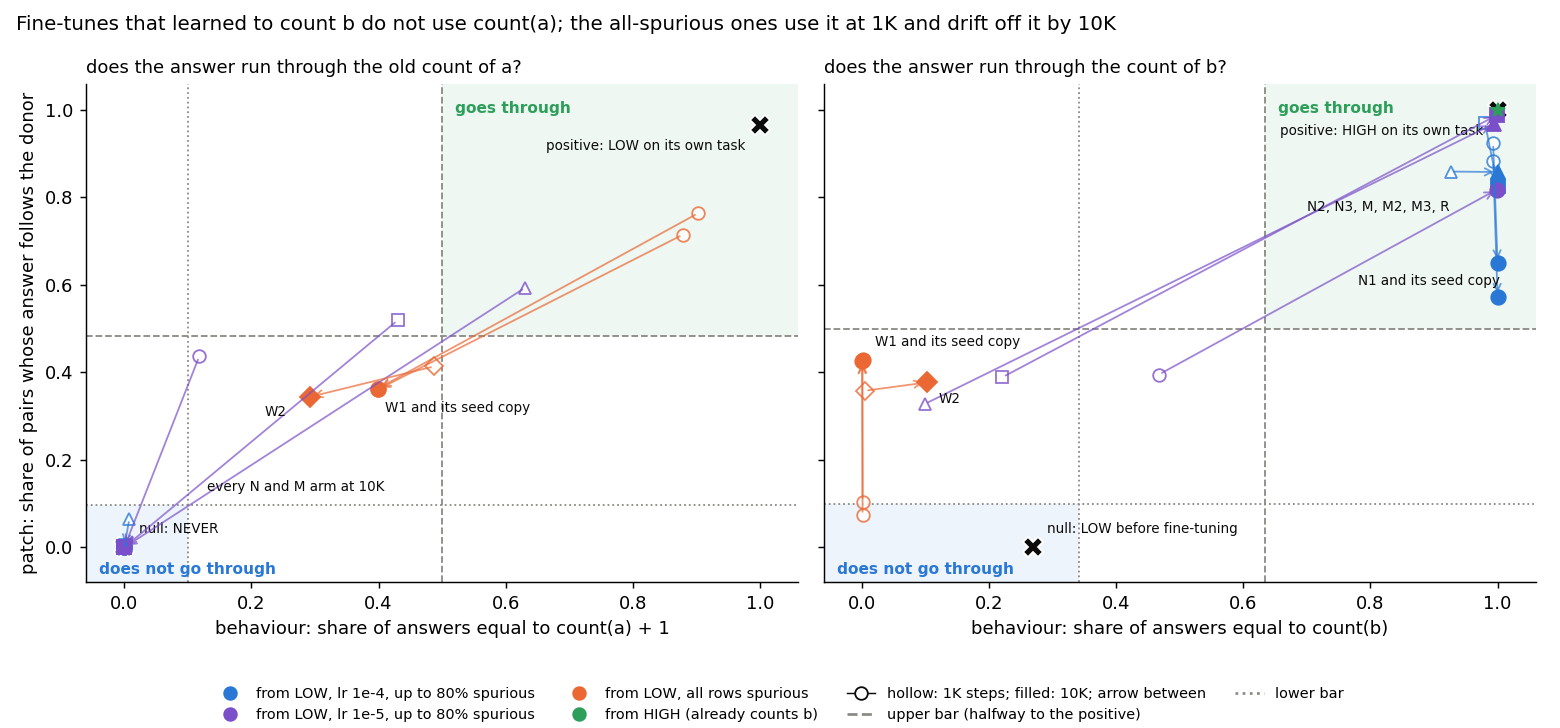
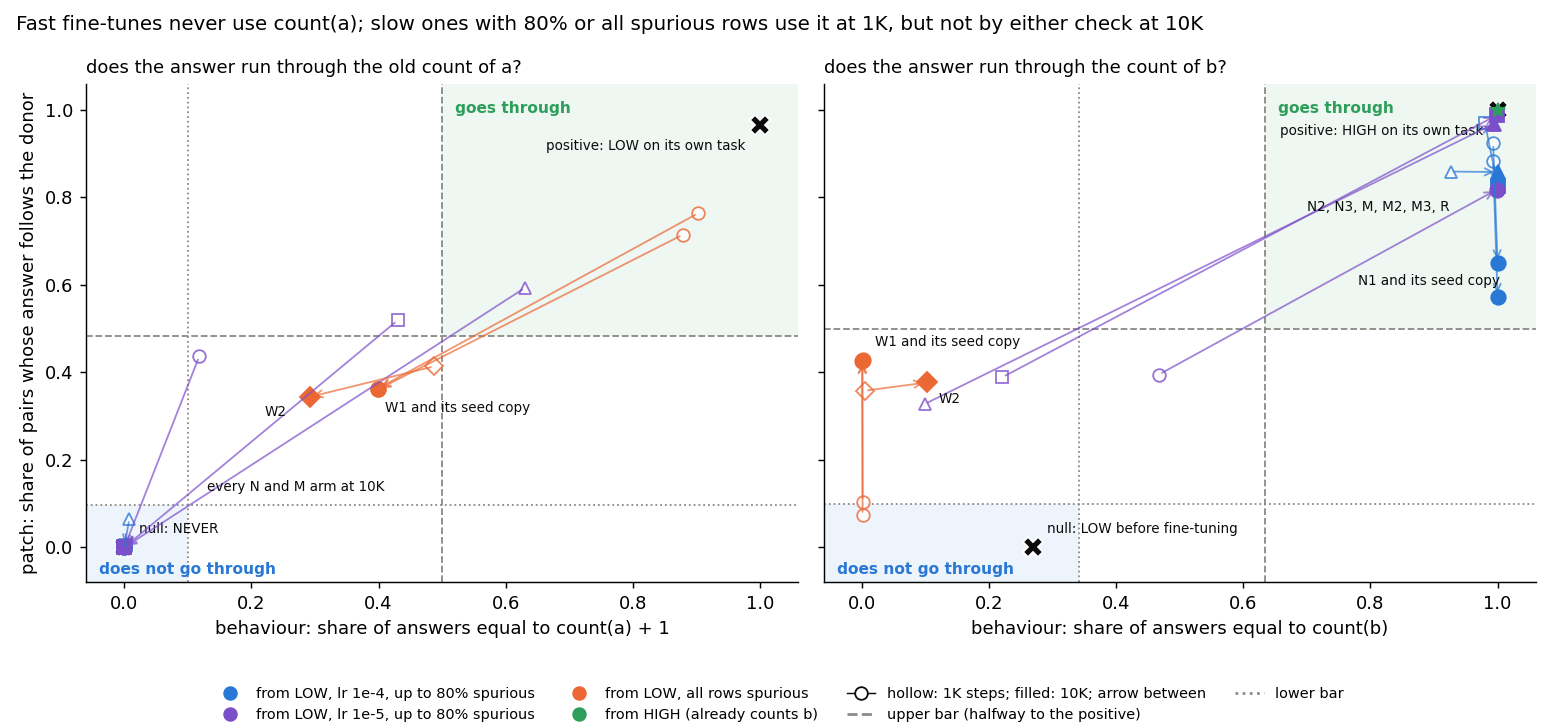
E55 Stage A: apply independent check corrections
Headline matches the table (M3 through count a at 1K; fast arms never through);
count-c reading ruled out for W1 at 10K by a + b + c = 40, midpoint rule named as
fitting but untested; PA4 reading hedged for uneven probe controls; noise, blind-to
and Not run items added; figure titles and probe legend corrected.

Changed region(s): [[0.0, 0.0, 0.7692, 0.0604]]

diff --git a/experiments/pcfg_anchors/plot.py b/experiments/pcfg_anchors/plot.py
@@ -84,14 +84,14 @@ def fig_controls(out: str = "controls.png", title: str = "The patch moves the an
     finish(fig, out, title)
 
 
-def fig_probe(out: str = "probe.png", title: str = "LOW's count of b is readable, at about half the strength of its count of a") -> None:  # fmt: skip
+def fig_probe(out: str = "probe.png", title: str = "LOW's count of b decodes above shuffled labels, just over the possession bar") -> None:  # fmt: skip
     pr = load("a1c_probe.json")["probes"]
     m, mp = pr["margins"], pr["m_plus"]["m_plus"]
     blocks = np.arange(1, 7)
-    fig, ax = plt.subplots(figsize=(7.6, 5.2))
-    for key, lab, col in (("LOW_count_a", "LOW, count of a (positive control)", N_C),
-                          ("HIGH_count_b", "HIGH, count of b (trained on it)", R_C),
-                          ("LOW_count_b", "LOW, count of b (never asked for it)", W_C)):  # fmt: skip
+    fig, ax = plt.subplots(figsize=(7.6, 5.8))
+    for key, lab, col in (("LOW_count_a", "LOW, count of a (positive control), minus the better of shuffled labels and NEVER's probe", N_C),
+                          ("HIGH_count_b", "HIGH, count of b (trained on it), minus shuffled labels", R_C),
+                          ("LOW_count_b", "LOW, count of b (never asked for it), minus shuffled labels", W_C)):  # fmt: skip
         ax.plot(blocks, m[key]["m"], "-o", color=col, lw=2, ms=6, label=lab)
     lb = np.array(m["LOW_count_b"]["m"])
     sb = np.array(m["LOW_count_b"]["s"])
@@ -99,11 +99,11 @@ def fig_probe(out: str = "probe.png", title: str = "LOW's count of b is readable
     ax.axhline(0.5 * mp, color=INK, ls="--", lw=1)
     ax.text(6.05, 0.5 * mp, "possession bar:\nhalf the positive\ncontrol's best", fontsize=8, va="center")
     ax.axhline(0, color=MUTED, lw=1)
-    ax.text(6.05, 0.0, "no better than\nshuffled labels", fontsize=8, va="center", color=INK)
+    ax.text(6.05, 0.0, "no better than\nits control", fontsize=8, va="center", color=INK)
     ax.set_xlim(0.7, 7.1)
     ax.set_xlabel("block whose output at '=' the linear probe reads")
-    ax.set_ylabel("probe accuracy minus best control accuracy")
-    ax.legend(fontsize=8, loc="upper center", bbox_to_anchor=(0.5, -0.14), ncol=2, frameon=False)
+    ax.set_ylabel("probe accuracy minus its control's accuracy")
+    ax.legend(fontsize=8, loc="upper center", bbox_to_anchor=(0.5, -0.14), ncol=1, frameon=False)
     finish(fig, out, title)
 
 
@@ -143,7 +143,7 @@ def check_panel(ax: Axes, check: str, refs: dict[str, tuple[float, float]], arms
     ax.set_xlabel("behaviour: share of answers equal to " + ("count(a) + 1" if check == "a" else "count(b)"))
 
 
-def fig_labels(out: str = "labels.png", title: str = "Fine-tunes that learned to count b do not use count(a); the all-spurious ones use it at 1K and drift off it by 10K") -> None:  # fmt: skip
+def fig_labels(out: str = "labels.png", title: str = "Fast fine-tunes never use count(a); slow ones with 80% or all spurious rows use it at 1K, but not by either check at 10K") -> None:  # fmt: skip
     a1 = {p: load(f"a1_{p}.json") for p in ("LOW", "HIGH")}
     bars = load("predictions.json")["a2_bars"]
     fig, axes = plt.subplots(1, 2, figsize=(12, 5.6), sharey=True)

diff --git a/experiments/pcfg_anchors/plot_log.py b/experiments/pcfg_anchors/plot_log.py
@@ -15,7 +15,7 @@ from plot import FIG, fig_controls, fig_labels, fig_table6
 
 def main() -> None:
     FIG.mkdir(exist_ok=True)
-    fig_labels("log_labels.png", "Counters that learned b do not use the count of a; spurious fine-tunes use it early, then drift")
+    fig_labels("log_labels.png", "Fast fine-tunes never use the count of a; slow ones with many spurious rows use it early, not by the end")
     fig_table6("log_reproduction.png", "The rebuilt grammar reproduces seven of the paper's nine fine-tune results")
     fig_controls("log_controls.png", "Swapping the count in moves the answer on the models that count, never on the nulls")
 

diff --git a/reports/analyses/2026-10-29_analysis_e55-stage-a.md b/reports/analyses/2026-10-29_analysis_e55-stage-a.md
@@ -5,16 +5,16 @@ E55 Stage A, reuse line, 2026-10-29. Plan `reports/plans/2026-10-29_plan_reuse-s
 `notebooks/E55_pcfg_anchors.ipynb`, figures `experiments/pcfg_anchors/figures/` from `plot.py`.
 
 We fine-tuned a small model that counts only the letter a to count the letter b, and asked whether each new answer runs through the old count, judged without any decomposition.
-Fine-tunes that learned to count b never used the old count, and fine-tunes trained only on rows the old count answers used it early but drifted off it.
-The reuse line now has a working ground truth outside VPD, but it marks few fine-tunes as reusing the old count, so scoring VPD against it will be lopsided.
+Fast fine-tunes never used the old count, while slow fine-tunes trained mostly or only on rows the old count answers used it after a thousand steps, and by the end neither check read any of them as using it.
+The reuse line now has a working ground truth outside VPD, but it marks only two early states as reusing the old count, so scoring VPD against it would be lopsided.
 
 ## The answer
 
 The two checks work as a ground truth on this grammar. Swapping the count in moves the answer on every model that
-uses it and never on the nulls. Every fine-tune that learned to count b answers without the count of a, by both
-checks. The fine-tunes trained only on spurious rows used the count of a after a thousand steps. By the end neither
-check reads them as using it, so one filed prediction missed. None was reversed. The model that never
-answered for b already held a readable count of b, by a narrow margin.
+uses it and never on the nulls. Fast fine-tunes never ran through the count of a. The slow fine-tunes with 80% and
+with all spurious rows ran through it after a thousand steps. By the end the first had learned b and left the old
+count, and the all-spurious ones read neither, so one filed prediction missed. None was reversed. The count of b
+decodes from the base model above shuffled labels, narrowly.
 
 ## What we were trying to test
 
@@ -36,7 +36,9 @@ families. Three pretraining mixes fix what each model can do before any fine-tun
 | NEVER | b only | counts b; never saw the `C a 40` prefix |
 
 **The fine-tunes.** Each fine-tune trains a model to answer `C b 40` for 10K steps, with states saved at 1K and 10K.
-Spurious rows are training rows where `count(b)` is set to `count(a) + 1`, so on them answering `count(a) + 1` is right.
+Spurious rows are training rows whose `count(b)` keeps its natural value and whose count of a in the window is set
+to `count(b) - 1` by swapping a's and c's, so on them answering `count(a) + 1` is right. The text holds only a, b
+and c, so the three window counts sum to 40 on every row, natural or spurious.
 The arms follow Table 6 of the paper:
 
 | arm | base | learning rate | spurious share | what it rules out |
@@ -111,8 +113,10 @@ Behaviour on the pretrained models, 4,000 rows each, beside the score of guessin
 | NEVER | 0.2175 | 1.000 | 0.348 | 0.2215 |
 
 LOW's count-b accuracy equals, to four digits, the score of answering `count(a)`: asked for b, it answers its count of
-a. Table 6 prints 5.2% for this cell. Our window counts sit between 9 and 17, so the two counts agree more often
-than in the paper.
+a. A second, independent number agrees. An exact count-of-a answer is never right on the 0.1765 of rows where
+`count(b)` equals `count(a) + 1`, so on the qualifying inputs it scores 0.2215 / (1 − 0.1765) = 0.269. That is
+LOW's measured behaviour null for b. Table 6 prints 5.2% for this cell, probably because our window counts, which sit
+between 9 and 17, agree more often than the paper's. We did not measure the paper's spread.
 
 Patch at every block, mean of three sets of 1,000 pairs:
 
@@ -130,10 +134,11 @@ Behaviour nulls over three sets: NEVER's share of `count(a) + 1` answers 0, 0, 0
 
 ![Count-b accuracy at 10K against Table 6](../../experiments/pcfg_anchors/figures/table6.png)
 
-**Reading it.** Yes, in seven of nine cells, the most the filing allowed. Every fine-tune trained mostly on natural
-rows reaches 99.85% to 100% on count b, within six points of the paper. The two all-spurious fine-tunes miss. The slow
-one scores 17.7%, the score of always answering `count(a) + 1` on these rows. The fast one scores 26.0%, above that
-floor, where the paper prints 1.9%. Our fine-tunes also learn faster early. At 1K the slow learners read 26% to 48%;
+**Reading it.** Yes, in seven of nine cells, the most the filing allowed. Every fine-tune with any natural rows
+reaches 99.85% to 100% on count b, within six points of the paper. The two all-spurious fine-tunes miss. The slow
+one scores 17.7%, equal to the score of always answering `count(a) + 1`, although by 10K it gives `count(a) + 1` on
+only 0.40 of qualifying inputs. It gets its points on the rows where `count(b)` equals `count(a) + 1` and almost none
+elsewhere. The fast one scores 26.0%, above that floor, where the paper prints 1.9%. Our fine-tunes also learn faster early. At 1K the slow learners read 26% to 48%;
 the paper prints 1.4% to 33%. The early column was not filed.
 
 | arm | ours at 1K, % | Table 6 at 1K | ours at 10K, % | Table 6 at 10K | within 15 at 10K |
@@ -152,20 +157,35 @@ the paper prints 1.4% to 33%. The early column was not filed.
 
 ![Every fine-tuned state on the two checks](../../experiments/pcfg_anchors/figures/labels.png)
 
-**Reading it.** Every fine-tune that learned to count b does not go through the count of a, and goes through the
-count of b instead. In the left panel each such state at 10K sits at exactly zero on both checks. Their 1K states sit
-under both lower bars too, except the slow learners, whose answers were still partly `count(a) + 1`. The all-spurious
-fine-tunes start where the filing expected. After 1K steps the slow one gives `count(a) + 1` on 0.88 of inputs.
-It follows a swapped count of a on 0.72 of pairs. Its seed copy reads 0.90 and 0.76. By 10K both copies fall to about 0.40
-and 0.36, between the bars, so they read neither. The fast all-spurious fine-tune reads neither at both states. At 1K
-its behaviour is 0.488, just under the upper bar of 0.500. HIGH's fine-tune goes through its count of b, as expected.
+**Reading it.** Fast fine-tunes never go through the count of a. Slow ones with many spurious rows go through it
+early, and by 10K neither check reads them as going through it. Every fast fine-tune with natural rows sits under
+both lower bars at both states. At 10K every fine-tune that learned to count b sits at exactly zero on both checks, and goes through the count of b.
+
+The slow fine-tune with 80% spurious rows goes through the count of a at 1K. It gives `count(a) + 1` on 0.63 of
+inputs and follows a swapped count of a on 0.59 of pairs. By 10K it counts b at 99.85% and reads not through. The
+slow half-spurious fine-tune at 1K follows the swap on 0.52 of pairs, over the upper bar of 0.483. It answers
+`count(a) + 1` on only 0.43, so it reads neither. The plan expected both of these 1K states to go through.
+
+The all-spurious fine-tunes start where the filing expected. After 1K steps the slow one gives `count(a) + 1` on 0.88
+of inputs. It follows a swapped count of a on 0.72 of pairs, and its seed copy reads 0.90 and 0.76. By 10K both
+copies fall to about 0.40 and 0.36, between the bars, so they read neither. The fast all-spurious fine-tune reads
+neither at both states. At 1K its behaviour is 0.488, just under the upper bar of 0.500. HIGH's fine-tune goes through
+its count of b, as expected. So every slow fine-tune with 80% or more spurious rows goes through the old count at
+1K and no longer reads as going through it at 10K, not only the all-spurious one.
 
 What the all-spurious fine-tunes do at 10K is not settled by the checks. A swap at the last block shows what the
 answer depends on at all. For the slow all-spurious fine-tune at 1K, a swapped count of a moves the answer on 0.94 of
-pairs and a swapped count of b on 0.17. At 10K the two shares are 0.64 and 0.57: the answer depends on both counts
-about equally. On every spurious row `count(b)` equals `count(a) + 1` and the three counts sum to 40. So an answer built
-from the count of c fits the training rows exactly, and it would depend on a and b alike. The filing named this
-reading in advance as a blind spot. We have not tested it.
+pairs and a swapped count of b on 0.17. At 10K the two shares are 0.64 and 0.57: the answer depends on both counts.
+
+One reading would have the answer built from the count of c, which fits every spurious row. For the slow
+all-spurious fine-tune that reading is ruled out by the sum of 40. We sampled 65K qualifying natural windows, with no
+model. Any answer that depends on the count of c alone and equals `count(b)` on at most 0.01 of them gives
+`count(a) + 1` on at most 0.105. The slow all-spurious state reads 0.40 and at most 0.001, at both seeds.
+
+One rule fits both of its numbers: answer the midpoint of `count(a) + 1` and `count(b)`, rounded towards
+`count(a) + 1`. On the same windows it reads 0.41 and 0.00, and it is exact on every spurious row. That rule reads the
+count of a on every input, through a function the behaviour check is blind to. It fits, but it is untested. The fast
+all-spurious state at 10K, at 0.29 and 0.10, is not excluded by the bound.
 
 | state | behaviour a | patch a | reads, count of a | behaviour b | patch b | reads, count of b |
 |---|---|---|---|---|---|---|
@@ -194,29 +214,37 @@ reading in advance as a blind spot. We have not tested it.
 
 Every state built 1,000 pairs for each patch, so no patch was void. The filed null did not occur: on no state
 was one check over its upper bar and the other under its lower bar. A softer mismatch is visible in the right panel. At 10K the all-spurious states almost never answer `count(b)`.
-Yet a swapped count of b moves their answer at block 5 on 0.36 to 0.43 of pairs.
+Yet a swapped count of b moves their answer at block 5 on 0.38 to 0.43 of pairs, as the midpoint rule would.
 
 Two further readings were not filed. N1's patch for the count of b falls from 0.88 at 1K to 0.57 at 10K.
-Its seed copy falls from 0.92 to 0.65, while both still answer `count(b)` every time. So with training the count of b reaches the answer later than
-block 5 on more inputs, and N1's label sits closer to its upper bar. Second, every N and M fine-tune also changed LOW's
+Its seed copy falls from 0.92 to 0.65, while both still answer `count(b)` every time. That is consistent with the
+count of b reaching the answer later than block 5 on more inputs, which is untested. Either way N1's label sits
+closer to its upper bar. Second, every N and M fine-tune also changed LOW's
 answer to its own count-a task. Accuracy there fell from 0.99975 to 0.2175 at 10K, the same as NEVER's, which counts b
 whatever it is asked. HIGH's fine-tune kept its count-a accuracy at 0.974. One counter re-bound to the new letter would
 look like this, and the rule reads that as not going through the count of a, as the plan stated.
 
 Stage C would score the sixteen states from LOW at the first seed. Two go through the count of a, both at 1K: the
 slow 80%-spurious and the slow all-spurious arms. Nine do not and five read neither, where the plan expected six,
-eight and two.
+eight and two: the plan leaned on both all-spurious arms at both states and on two slow arms at 1K going through.
 
 ### Does LOW already hold a count of b?
 
 ![Probe margin by block](../../experiments/pcfg_anchors/figures/probe.png)
 
-**Reading it.** Yes, narrowly. The figure plots the probe margin by block. LOW's count-b margin is 0.277 at block 2,
-over the possession bar of 0.260 by about one and a half standard deviations. It clears the bar at block 3 too, then
-falls to 0.18 by block 6. Its count-a margin, the positive control, rises to 0.52. HIGH, which was trained on count b,
-reaches 0.65. So LOW holds a linear readout of the count of b in its early blocks that weakens towards the output. By
-the plan's definition, the fine-tunes that learned to count b reuse a readout LOW already had rather than build one.
-The caveat is that the margin clears the bar by little, and a probe cannot say whether the count is used.
+**Reading it.** Yes by the filed rule, narrowly, and the reading behind the rule is weaker than the pass. The
+figure plots the probe margin by block. LOW's count-b margin is 0.277 at block 2, over the possession bar of 0.260 by
+about one and a half standard deviations. It clears the bar at block 3 too, then falls to 0.18 by block 6. Its
+count-a margin, the positive control, rises to 0.52. HIGH, which was trained on count b, reaches 0.65.
+
+The two margins of LOW subtract different controls. The count-a margin subtracts NEVER's count-a probe as well as
+shuffled labels. NEVER never had a count-a task, yet it decodes count a at 0.44 to 0.52 in blocks 2 to 6, against
+about 0.34 for shuffled labels. The count-b margin subtracts shuffled labels only, because no model in this design
+lacks a count-b task in the way NEVER lacks a count-a one. LOW's count-b probe peaks at 0.626, about 0.11 above what
+NEVER reaches for a count it was never asked for. Against that kind of control the gap is under half the bar. Also,
+the count of b can be guessed from the count of a alone at 0.40 on natural windows, so part of the margin over
+shuffled labels can come from LOW's count of a. So the count of b decodes from LOW's residual above shuffled labels,
+by less than a model with no count-a task decodes the count of a. A probe also cannot say whether the count is used.
 
 | model, count | best block | probe accuracy | majority-class rate | margin | standard deviation over 3 probe seeds |
 |---|---|---|---|---|---|
@@ -230,35 +258,48 @@ Possession bar: half of LOW's best count-a margin, 0.260; voiding line 6 standar
 ## What we learned
 
 The reuse line has a ground truth that owes nothing to any decomposition, and its two checks never point opposite ways on
-all 22 states read. On this grammar, a fine-tune that learns a new count does not run its answer through the old
-count, even when the model held a weak readout of the new one. Training only on rows where the old count gives the answer was
-meant to be the clearest "existing" anchor. It uses the old count only early, and by the end it has found something
-else that fits the same rows. So "existing" labels are scarce: two of the eleven labelled
-states. That leaves any method scored against them, VPD included, with a lopsided truth set.
+all 22 states read. On this grammar a fast fine-tune that learns a new count never runs its answer through the old
+count. Every slow fine-tune with 80% or more spurious rows runs through it after a thousand steps. By the end it has
+either learned the new count or gives an answer neither check reads as the old count. Training only on rows where the
+old count gives the answer was meant to be the clearest "existing" anchor. Whether those fine-tunes still use the count
+of a at 10K, through a function other than `count(a) + 1`, the checks cannot say. So "existing" labels are scarce: two
+of the eleven labelled states, both at 1K. That leaves any method scored against them, VPD included, with a lopsided
+truth set. If the all-spurious states at 10K turn out to use the count of a through a midpoint, the scarcity weakens.
 
 ## How compelling is the evidence
 
-- **The checks.** The controls are clean: nulls at zero in every set and block, positives at 0.97 and 1. The bars
-  are far apart, so few labels are decided by noise. Two cells sit near a bar. The fast all-spurious state at 1K
-  is 0.012 under the upper behaviour bar. The slow all-spurious state at 1K reads 0.104 and 0.073 on the count-b
-  patch over its two seeds, either side of the lower bar.
+- **The checks.** The controls are clean: nulls at zero in every set and block, positives at 0.97 and 1. Each
+  fine-tuned state is read once, on one set of 1,000 pairs and 1,000 inputs shared by every state. The binomial
+  standard deviation of one reading is about 0.016 near 0.5 and about 0.009 near 0.1. Two cells sit within it of a
+  bar. The fast all-spurious state at 1K is 0.012 under the upper behaviour bar for the count of a, about 0.75 sd.
+  Its patch is 0.069 under its bar, so its label does not depend on that cell. The slow all-spurious state at 1K reads
+  0.104 and 0.073 on the count-b patch over its two seeds, either side of the lower bar. The next closest, the slow
+  no-spurious state at 1K, sits about 2 sd over the lower behaviour bar, and its patch alone makes it "neither". No
+  count-a label, the labels Stage C would use, depends on a cell within noise.
 - **What the behaviour check is blind to.** It counts answers equal to one value; an answer that uses the count
-  through another function reads low.
+  through another function reads low, as the midpoint rule would. Its positive reference for the count of a is LOW's
+  plain count-a accuracy on `C a 40`. That is a different quantity from the fine-tuned reading, which is the share of
+  answers equal to `count(a) + 1` on qualifying `C b 40` inputs. No positive control of that reading itself was run;
+  the slow all-spurious state at 1K, at 0.88, shows only that it can read high.
 - **What the patch is blind to.** It reads one position and one block. Block 5 is next to the output, so it tests
   that the count is present late, not where it is computed. A count computed after block 5 from text positions
-  reads low. A donor matched on the other count cannot tell a count of c from a count of a, since changing one at a
-  fixed count of b changes the other.
+  reads low. The three counts sum to 40 on every input. So at a fixed count of b, changing the count of a changes the
+  count of c, and at a fixed count of a, changing b changes c. Neither patch can tell a count of c from the count it
+  swaps, and the count-b labels of R and N1 carry the same ambiguity. Only a mechanism-level test separates them. The
+  count-b patch null is LOW on `C a 40`, not on the fine-tunes' own prefix `C b 40`.
 - **What the probe is blind to.** Use: a decodable count need not be one the model computes with. Taking the best of
   six blocks inflates false positives slightly. LOW's count-b margin clears its bar by about one and a half
-  standard deviations.
+  standard deviations. Its controls are uneven: the count-a margin subtracts a model with no count-a task, while
+  the count-b margin subtracts only shuffled labels. Part of the count-b margin can come from the count of a, which
+  predicts the count of b at 0.40 on its own.
 - **Seeds.** One pretraining seed per mix. Two fine-tune seeds for N1 and the slow all-spurious arm, which agree on
   every label for the count of a. One task family and one window, 40 tokens.
 
 ## Surprises
 
-- The all-spurious fine-tunes leave the count of a between 1K and 10K steps, while their accuracy on spurious
-  test rows stays at 1: they still answer every spurious row right at 10K. A filed prediction missed for this reason; it
-  was not reversed, since no all-spurious state reads "does not go through".
+- The all-spurious fine-tunes stop reading as going through the count of a between 1K and 10K steps, while their
+  accuracy on spurious test rows stays at 1: they still answer every spurious row right at 10K. A filed prediction
+  missed for this reason; it was not reversed, since no all-spurious state reads "does not go through".
 - Every fine-tune that learned to count b from LOW also wiped out LOW's answer on its own count-a task.
 - LOW's count-b accuracy before any fine-tune sits exactly on the score of answering its count of a.
 
@@ -267,11 +308,12 @@ states. That leaves any method scored against them, VPD included, with a lopside
 1. **Decide whether instrument scoring goes ahead on these labels.** The plan's decision tree covers a pass, a
    reversal and the null, but not a miss without reversal. Eleven states are labelled, two of them "existing", so a
    method must agree on ten to pass. If that is judged too lopsided, more "existing" anchors come first.
-2. **Test the count-c reading of the all-spurious states at 10K**, $0 on the saved states: the share of answers equal
-   to the value the count of c gives on spurious rows. If they go through it, they are reuse of another count the
-   model has and can join the truth set as "existing".
-3. **Read the all-spurious arms between 1K and 10K** to find when they leave the count of a, so that more "existing"
-   states can be saved.
+2. **Read the per-row answers of the all-spurious states at 10K against the counts of a and b**, $0 on the saved
+   states; E55 Amendment 1 is being written for this. If the answers follow the midpoint of `count(a) + 1` and
+   `count(b)`, those states still use the count of a through another function, and the truth set may gain
+   "existing" anchors. If they follow no function of the two counts, the "neither" labels stand.
+3. **Read the all-spurious arms between 1K and 10K** to find when they stop reading as going through the count of
+   a, so that more "existing" states can be saved.
 
 ## Scorecard
 
@@ -284,7 +326,7 @@ states. That leaves any method scored against them, VPD included, with a lopside
 | PA1 nulls | the patch and behaviour nulls stay near zero | each ≤ 0.05 | patch 0, 0; behaviour 0 | pass |
 | PA2 | count-b accuracy at 10K within 15 points of Table 6 | ≥ 7 of 9 cells | 7 of 9; the two all-spurious cells miss by 17.7 and 24.05 | pass, at the cap the filing anticipated |
 | PA3 | all-spurious arms through count a at 1K and 10K; N1 not through at both; R through count b | all 7 readings | 4 of 7: slow all-spurious 1K through; its 10K neither; fast all-spurious 1K and 10K neither; N1 both not; R through | **miss**, not reversed |
-| PA4 | LOW possesses the count of b | m ≥ 3 s and m ≥ 0.5 m₊ at some block | block 2: 0.277 ≥ 0.032 and ≥ 0.260 | pass, narrowly |
+| PA4 | LOW possesses the count of b | m ≥ 3 s and m ≥ 0.5 m₊ at some block | block 2: 0.277 ≥ 0.032 and ≥ 0.260 | pass by its rule, narrowly; the count-b margin lacks the no-task control the count-a margin has |
 | PA3 null | the two checks point opposite ways on ≥ 3 of 17 states | count | 0 of 17 | did not occur |
 | Stage C pass bar | agreements needed with 11 labelled states | smallest a with binomial tail ≤ 0.05, raised to majority + 1 | a = 9, raised to 10 by the majority of 9 "not through" | for Stage C |
 
@@ -295,9 +337,15 @@ by `interchange.label` with strict inequalities.
 
 - Stage B, lowercase on the 67M; the free part of Stage C, pruning, reverse fine-tuning and steering; the gated part, a VPD decomposition
   of LOW, gated.
-- The count-c check on the all-spurious states; states between 1K and 10K.
-- Probes on the fine-tuned states; per-row answers were not saved, so the mixed answers of the all-spurious states
-  at 10K cannot be read from the results files.
+- Per-row answers of the all-spurious states at 10K against the counts of a and b, which would test the midpoint
+  rule; E55 Amendment 1. They were not saved, so the mixed answers cannot be read from the results files. States
+  between 1K and 10K.
+- A mechanism-level test that separates the count of c from the counts of a and b, for either patch.
+- A positive control of the fine-tuned behaviour reading itself, the share equal to `count(a) + 1` on qualifying
+  `C b 40` inputs. A count-b patch null on `C b 40`, the fine-tunes' own prefix.
+- Resampling of each fine-tuned state's behaviour and patch readings; each was read once.
+- A patch at the text positions, or at any position other than `=`.
+- A no-task control for the count-b probe, the analogue of NEVER for the count of a; probes on the fine-tuned states.
 - A second pretraining seed of any mix; fine-tune seeds beyond N1 and the slow all-spurious arm; the paper's 200K
   pretraining; Table 6's spurious test column beyond the accuracy reported in the results files.
 
@@ -306,3 +354,13 @@ Provenance: `experiments/pcfg_anchors/results/{a0,a1_LOW,a1_HIGH,a1_NEVER,a1c_pa
 `src/commute/interchange.py`, `src/commute/pcfg.py`. MATS cluster `debug` QoS, one GPU per job: rehearsal 44244,
 pretrainings 44268-44270, controls 44306 and 44307, fine-tunes 44328-44330; $0. Commits 6299401, 55da119, 87f77ce,
 7e62cb4.
+
+## Review responses
+
+Corrections from `reports/reviews/2026-10-29_review_e55-stage-a-analysis.md` were applied on 2026-10-29: the headline
+now matches the table, the count-c reading is ruled out for the slow all-spurious state, PA4's reading is hedged,
+and the noise, blind-to and "Not run" items were added. One figure differs from the review. NEVER's count-a probe
+accuracy, averaged over the three probe seeds, runs 0.44 to 0.52 over blocks 2 to 6, not 0.47 to 0.52: block 3 reads
+0.44 (`a1c_probe.json` probes.raw.count_a NEVER.acc). The conclusion drawn from it is unchanged. The count-c bound and
+the midpoint rule's 0.41 and 0.00 were re-run from the reviewer's scripts: `conly.py` reproduced 0.408 and 0.000
+on 65,019 qualifying windows, and `conly3.py` the bound of 0.105 at a count-b share of at most 0.01.

diff --git a/experiments/TRIED.md b/experiments/TRIED.md
@@ -104,7 +104,7 @@ Codes E1–E13 are the ones the research log ("Update Decomposition", see `READM
 | E52 | Activation and prompting baselines for teach vs elicit: do neuron patching (B2), a steering vector (B3) or prompting the original model with demonstrations (B4) tell E12's copy fine-tunes from its cipher fine-tunes, and does each read the learned-nothing code fine-tune as "no change"? (`experiments/baseline_neurons/`, 2026-10-29, ran; `reports/analyses/2026-10-29_analysis_e52-baseline-neurons.md`, `notebooks/E52_baseline_neurons.ipynb`; plan `reports/plans/2026-10-29_plan_baselines-scoping.md` section "B2 + B3 + B4 = E52"; predictions `results/predictions.json`; MATS cluster L40, debug QoS, job 44095, $0, `cluster/baseline_neurons.sbatch`) | Target model only, fp32, E46's eight E12 states and `code_step10`, each task's 97 held-out windows split into fit and scoring halves; every share = the method's change in log P(target) at the answer position over the fine-tune's gain G. Stage 0 first (identity neuron patch, full residual patch, G > 1 nat). B4: W₀ with 0/4/16 (marker, key, value) demonstrations, query key excluded. B3: one mean residual shift per block input, layer chosen on the fit half. B2: top-k MLP neurons by mean activation shift take the tuned activations (k = 1…all), k₅₀ and the idle share of the top 16. P1-P4 by E51's separation rule, P5 by the 0.05-nat floor | Stage 0 passes (hooks, not methods). Prompting W₀ at n = 16: share copy 0.10–0.12 vs cipher 0.13–0.14, rise 1.0–1.2 vs 1.6–1.9 nats, both near null: separates the wrong way (P4 reversed). Steering: S 0.72–0.80 copy vs 0.10–0.19 cipher (P3 pass). Neuron patching: half the gain only at all 12288 neurons in all 8 states, full-width share 0.50–0.71 copy, 0.76–0.97 cipher (P1 fails); idle share does not separate (P2 fails). code_step10 G = −0.0514 vs floor 0.05 (P5 fails by 0.0014) | Filed tree: P4 failed, stop and ask; decision pending (`reports/decisions/2026-10-29_decision_e52-p4.md`; options amend and rerun prompting, write up steering with caveat, key-dependent elicit pair). Readings of the reversal, all hypotheses: labels never checked by behaviour, prompt format too weak for a 4-layer model, two near-null shares. Steering may separate this pair by construction (input-independent vector vs key-dependent cipher) |
 | E52 amend 1 | Does the original model perform each task in context when the demonstrations sit next to the query? P4 re-asked (`experiments/baseline_neurons/amend1.py`, `plot_amend1.py`, 2026-10-29; decision `reports/decisions/2026-10-29_decision_e52-p4.md` option A, user "A then C"; predictions `results/predictions_amend1.json`; `cluster/baseline_neurons_amend1.sbatch`, MATS debug, $0) | W₀ only, the 48 scoring windows per task: Pile tokens 0-18, n = 0/4/16/31 (marker, key, value) demonstrations of other keys (E52's own draws; 31 = every other key), then the marker and query key. Share = rise / E52's G_score; top-1 at n = 31; raw rise. Stage 0: induction control (random 25-token sequence shown twice, top-1 on the second copy ≥ 0.5, source Olsson et al. 2022) and n = 0 equal to E52's window. P4a: copy share ≥ 0.5 at n = 31 and separates copy-higher by E52's rule; bands 0.5 / 0.3 | Filed and coded, not run (lean: fails, partial or mechanism only, low confidence) | Next: run; then option C (key-dependent elicit pair) to `/design` |
 | E53 | Performed anchor, stage A0 (planned): does the original 67M already continue lowercase Pile in lowercase, and fail a 50-word token cipher, before any fine-tune of either? (`experiments/performed_anchor/a0.py`, `src/commute/performed.py`, `cluster/performed_anchor.sbatch`, 2026-10-29; plan `reports/plans/2026-10-29_plan_performed-anchor.md` option A, approved by the user; predictions `results/predictions_a0.json`; cluster debug L40, ~5 min, $0) | W₀ only, Pile val rows 0-255. Control: W₀'s held-out log-probability on E36 Amendment 1's lowercased rows within 0.01 of −3.146. Log p(lowercase form) − log p(capitalised form) at case positions (6,070 by the tokenizer) in the lowercased rows (≥ +1) and in the cased rows (≤ −1); log p(π(x)) − log p(x) at cipher positions (2,916; π a seeded derangement of the word tokens of frequency ranks 50-99, in context and targets) (≤ −3). Stop: control missed, lowercase ≤ 0 or cipher > −1. **Fine-tunes and readings (code and predictions filed 2026-10-29, `run.py finetune` then `run.py read`, `score.py`, predictions `results/predictions.json`; cluster debug L40, two jobs ≤ 30 min, $0):** E37's recipe on each task at batch orders 0 and 1 (cipher saved at steps 10, 100, 300); at up to 500 scored positions per task (127-token windows), the stand-in ratio under the least-squares split (P1, scored: separates if min lowercase − max cipher ≥ 0.3), the relay (P2, reported), the zero update and do-nothing first, then a KL-matched random δW and a G-matched hand write (P3: write minus fine-tune within 0.15 = the ratio tracks the task). A row under 1 nat is read above a noise floor F = max(0.1, 2 × the random δW's gain, 2 × the row's standard error) | A0 ran and passed: lowercase +1.18 nats (90% interval 0.84-1.56), cased −5.58, cipher −5.53, control −3.1458 (`results/a0.json`). **Fine-tunes and readings ran** (`results/finetune.json`, `results/read.json`; analysis `reports/analyses/2026-10-29_analysis_e53-performed-anchor.md`, notebook `notebooks/E53_performed_anchor.ipynb`, figures `figures/{ratio,gain,nulls,relay}.png` from `plot.py`; MATS cluster L40 debug, fine-tune 107 s, read 217 s, $0; job IDs not recorded; pending an independent check). Controls passed: recipe 0.12963 vs 0.1301; bf16 within 0.0003; zero, do-nothing and same-G exact, but by construction (no information). **P1 separates**: stand-in ratio (masked gain / subcomponent gain, `score.ratio_of`) lowercase 0.919, 0.929 vs cipher 0.264, 0.257, gap 0.654 (bar 0.3; same at the 1-nat bar); 90% intervals ±0.03-0.06; seed spread ≤ 0.011. Gate gain / subcomponent gain 0.87-0.88 vs 0.14-0.15; the part beyond g is 0.05 of the subcomponent gain on lowercase but 0.12 on the cipher (toys 0.01-0.05; provisional). Matched gain (reported): cipher seed 0 step 100 G 2.32 ratio 0.28, seed 1 step 10 G 1.00 ratio 0.38, vs lowercase G 1.61-1.67; cipher ratio falls with steps (≈0.4 → 0.26). **P2 does not separate** (as leaned): relay 0.66 vs 0.41-0.42, gap 0.24; cipher relay below its lean 0.6-0.8, falls from 0.70-0.75 at step 10, alike to lowercase at matched gain. **P3 unread**: both hand writes hit the α cap 1000 without reaching target, G −16.9 (lowercase) and −11.9 (cipher), off-target KL 22.7 and 34.5 vs 0.37/0.26; write fit cosine 0.11/0.24, relative error 1.7/1.8 (next-token keys not identifiable from the input, candidate). Random δW (KL-matched): G −0.24 lowercase (gains negative, ratio undefined), +0.25 cipher (under its floor 0.49, unread; cells divide to 0.83). Leans: lowercase ratio, relay, G met; cipher ratio and G met, relay missed. Reading "separates (P3 unread)". Limit: a new mechanism built from W₀'s pieces reads "elicited"; the cipher's answers are common words with existing output pieces, yet read low | The ratio separates this performed/new pair by a wide margin, but whether it reads kind or task is open (the main caveat). Next: a task-matched null that reaches its gain (decides kind vs task), a second decomposition seed (narrows the granularity limit), then Qwen stage 1 with an anchor Qwen performs; the choice goes to the user |
-| E55 | Reuse anchors, Stage A: on Jain et al.'s counting grammar, does a fine-tune that learns to count b run through the model's existing count of a, judged by behaviour and an interchange patch with no decomposition? (`experiments/pcfg_anchors/`, `src/commute/pcfg.py`, `src/commute/interchange.py`, 2026-10-29; plan `reports/plans/2026-10-29_plan_reuse-stage1.md` Revision 1; predictions `results/predictions.json`, four filings, A2 bars filed before any fine-tune; analysis `reports/analyses/2026-10-29_analysis_e55-stage-a.md`, notebook `notebooks/E55_pcfg_anchors.ipynb`, figures `figures/{controls,probe,labels,table6}.png` from `plot.py`, log figures from `plot_log.py`; MATS cluster debug, jobs a0 44244, a1 44268-44270, a1c 44306/44307, a2 44328-44330, $0) | minGPT 6 blocks d 192 (~3M), 50K pretraining steps, three Counter priors: LOW (counts a), HIGH (a, b, c), NEVER (b only). Fine-tunes to count b from LOW at lr {1e-4, 1e-5} × spurious share {0, 0.5, 0.8, 1} (Table 6 grid; spurious rows set count(b) = count(a) + 1), plus R from HIGH; seed 1 of N1 and W1; states at 1K and 10K. Checks at `=`: behaviour B (share answering count(a) + 1, or count(b)) and patch P (residual after block 5 swapped from a donor with the same other count; share following the donor), bars from A1 nulls and positives (count a: B 0.10/0.50, P 0.097/0.483; count b: B 0.342/0.635, P 0.10/0.50). Possession: linear probe margin over shuffled-label (and NEVER) controls, bar 0.5 × LOW's count-a margin | Controls clean: P at block 5 0.966 (LOW count a) and 1.000 (HIGH count b), every null 0 at every block; LOW's count-b accuracy 0.2215 = the score of answering count(a). PA1 pass. PA2 pass at the cap: 7 of 9 10K cells within 15 points; W1 17.7 (on the count(a) + 1 floor 17.65) and W2 25.95 miss. **PA3 missed, not reversed** (4 of 7): W1 1K through count a (B 0.88, P 0.72; seed 1 0.90, 0.76), W1 10K neither (0.40, 0.36, both seeds), W2 neither at 1K (B 0.488 vs hi 0.4999) and 10K; N1 not through at both (B = P = 0); R through count b. Every N and M state at 10K: B = P = 0 for count a, through count b; also loses LOW's count-a task (0.2175, as NEVER). W at 10K: last-block swap 0.64 (count a) and 0.57 (count b), so the answer depends on both; consistent with a count-c route (filed blind spot), untested. B and P never point opposite ways (null: 0 of 17). PA4 pass, narrowly: LOW count-b margin 0.277 at block 2 vs bar 0.260 (3 s 0.032). Stage C truth set: 2 through, 9 not, 5 neither (plan expected 6/8/2); pass bar for n = 11 is 10 | The ground truth works but gives only two "existing" states, so instrument scoring would be lopsided; the plan's decision tree does not cover a PA3 miss without reversal. Next: the lead/user decide whether C1 runs on 11 labelled states; a $0 count-c check of W at 10K on the saved states; W states between 1K and 10K |
+| E55 | Reuse anchors, Stage A: on Jain et al.'s counting grammar, does a fine-tune that learns to count b run through the model's existing count of a, judged by behaviour and an interchange patch with no decomposition? (`experiments/pcfg_anchors/`, `src/commute/pcfg.py`, `src/commute/interchange.py`, 2026-10-29; plan `reports/plans/2026-10-29_plan_reuse-stage1.md` Revision 1; predictions `results/predictions.json`, four filings, A2 bars filed before any fine-tune; analysis `reports/analyses/2026-10-29_analysis_e55-stage-a.md`, corrected after review `reports/reviews/2026-10-29_review_e55-stage-a-analysis.md`, notebook `notebooks/E55_pcfg_anchors.ipynb`, figures `figures/{controls,probe,labels,table6}.png` from `plot.py`, log figures from `plot_log.py`; MATS cluster debug, jobs a0 44244, a1 44268-44270, a1c 44306/44307, a2 44328-44330, $0) | minGPT 6 blocks d 192 (~3M), 50K pretraining steps, three Counter priors: LOW (counts a), HIGH (a, b, c), NEVER (b only). Fine-tunes to count b from LOW at lr {1e-4, 1e-5} × spurious share {0, 0.5, 0.8, 1} (Table 6 grid; spurious rows set count(b) = count(a) + 1), plus R from HIGH; seed 1 of N1 and W1; states at 1K and 10K. Checks at `=`: behaviour B (share answering count(a) + 1, or count(b)) and patch P (residual after block 5 swapped from a donor with the same other count; share following the donor), bars from A1 nulls and positives (count a: B 0.10/0.50, P 0.097/0.483; count b: B 0.342/0.635, P 0.10/0.50). Possession: linear probe margin over shuffled-label (and NEVER) controls, bar 0.5 × LOW's count-a margin | Controls clean: P at block 5 0.966 (LOW count a) and 1.000 (HIGH count b), every null 0 at every block; LOW's count-b accuracy 0.2215 = the score of answering count(a). PA1 pass. PA2 pass at the cap: 7 of 9 10K cells within 15 points; W1 17.7 (on the count(a) + 1 floor 17.65) and W2 25.95 miss. **PA3 missed, not reversed** (4 of 7): W1 1K through count a (B 0.88, P 0.72; seed 1 0.90, 0.76), W1 10K neither (0.40, 0.36, both seeds), W2 neither at 1K (B 0.488 vs hi 0.4999) and 10K; N1 not through at both (B = P = 0); R through count b. Every N and M state at 10K: B = P = 0 for count a, through count b; also loses LOW's count-a task (0.2175, as NEVER). Fast arms never through count a; the slow 80%-spurious arm M3 is through count a at 1K (B 0.631, P 0.594; the plan leaned this way for M2 and M3) and not through at 10K; M2 1K neither (P 0.519 over hi, B 0.430). W at 10K: last-block swap 0.64 (count a) and 0.57 (count b), so the answer depends on both. A count-c-only answer is ruled out for W1 at 10K: since a + b + c = 40, any f(count c) with B_b <= 0.01 reaches B_a <= 0.105 vs 0.399 read (65K windows, no model); the midpoint of count(a) + 1 and count(b), rounded towards count(a) + 1, gives (0.408, 0.000) and fits, untested. W2 10K (0.292, 0.102) not excluded. B and P never point opposite ways (null: 0 of 17). PA4 pass by its rule, narrowly: LOW count-b margin 0.277 at block 2 vs bar 0.260 (3 s 0.032); controls uneven (count-a margin also subtracts NEVER, which decodes count a at 0.44-0.52; count-b margin subtracts shuffled labels only; count(a) alone predicts count(b) at 0.40). Each A2 cell read once, binomial sd ~0.016 near 0.5; no count-a label rests on a cell within noise. Stage C truth set: 2 through (M3 1K, W1 1K), 9 not, 5 neither (plan expected 6/8/2); pass bar for n = 11 is 10 | The ground truth works but gives only two "existing" states, so instrument scoring would be lopsided; the plan's decision tree does not cover a PA3 miss without reversal. Next: the lead/user decide whether C1 runs on 11 labelled states; per-row answers of W1 and W2 at 10K against (count(a), count(b)) on the saved states, $0 (E55 Amendment 1), which separates the midpoint rule from the alternatives; W states between 1K and 10K |
 
 ## Proposed and dropped
 

diff --git a/docs/research_log/PENDING.md b/docs/research_log/PENDING.md
@@ -7,4 +7,4 @@ reads this file afresh and flushes what it holds then; a line its brief named th
 clerk: find it in the changelog rather than re-adding it (friction 84, 117).
 A flush applies every line to `parts/` (README.md → Layout), rebuilds, republishes, and moves the lines to the changelog row it writes, leaving this list empty.
 
-- 2026-10-29 reuse-lead · `reports/analyses/2026-10-29_analysis_e55-stage-a.md`, `notebooks/E55_pcfg_anchors.ipynb`, `experiments/TRIED.md` E55 row, log figures `experiments/pcfg_anchors/figures/log_{labels,reproduction,controls}.png` (from `plot_log.py`) · E55 card (rewrite from this result: chip "mixed", Run/Found/Moved on; figures fig/e55_labels.png, fig/e55_reproduction.png, fig/e55_controls.png), claims table, Q5 status, timeline 2026-10-29 · Stage A ran ($0): the two checks work as a ground truth (controls clean, nulls 0); every fine-tune that learned to count b does not go through the count of a; the all-spurious fine-tunes go through it at 1K but read neither by 10K, so PA3 missed (not reversed); LOW possesses count b narrowly; only 2 of 11 labelled states are "existing", and whether Stage C runs on them is open
+- 2026-10-29 reuse-lead · `reports/analyses/2026-10-29_analysis_e55-stage-a.md`, `notebooks/E55_pcfg_anchors.ipynb`, `experiments/TRIED.md` E55 row, log figures `experiments/pcfg_anchors/figures/log_{labels,reproduction,controls}.png` (from `plot_log.py`) · E55 card (rewrite from this result: chip "mixed", Run/Found/Moved on; figures fig/e55_labels.png, fig/e55_reproduction.png, fig/e55_controls.png), claims table, Q5 status, timeline 2026-10-29 · Stage A ran ($0): the two checks work as a ground truth (controls clean, nulls 0); fast fine-tunes never go through the count of a; the slow 80%-spurious (M3) and slow all-spurious (W1) fine-tunes go through it at 1K, and by 10K M3 has learned b (not through) while the all-spurious ones read neither, so PA3 missed (not reversed); a count-c-only answer is ruled out for W1 at 10K by a + b + c = 40, and a midpoint of count(a) + 1 and count(b) fits it but is untested (Amendment 1: per-row answers on the saved states); LOW possesses count b by the filed rule, narrowly, against uneven controls (shuffled labels only for b, NEVER also for a); only 2 of 11 labelled states are "existing", both at 1K, and whether Stage C runs on them is open; corrected after the independent check reports/reviews/2026-10-29_review_e55-stage-a-analysis.md
